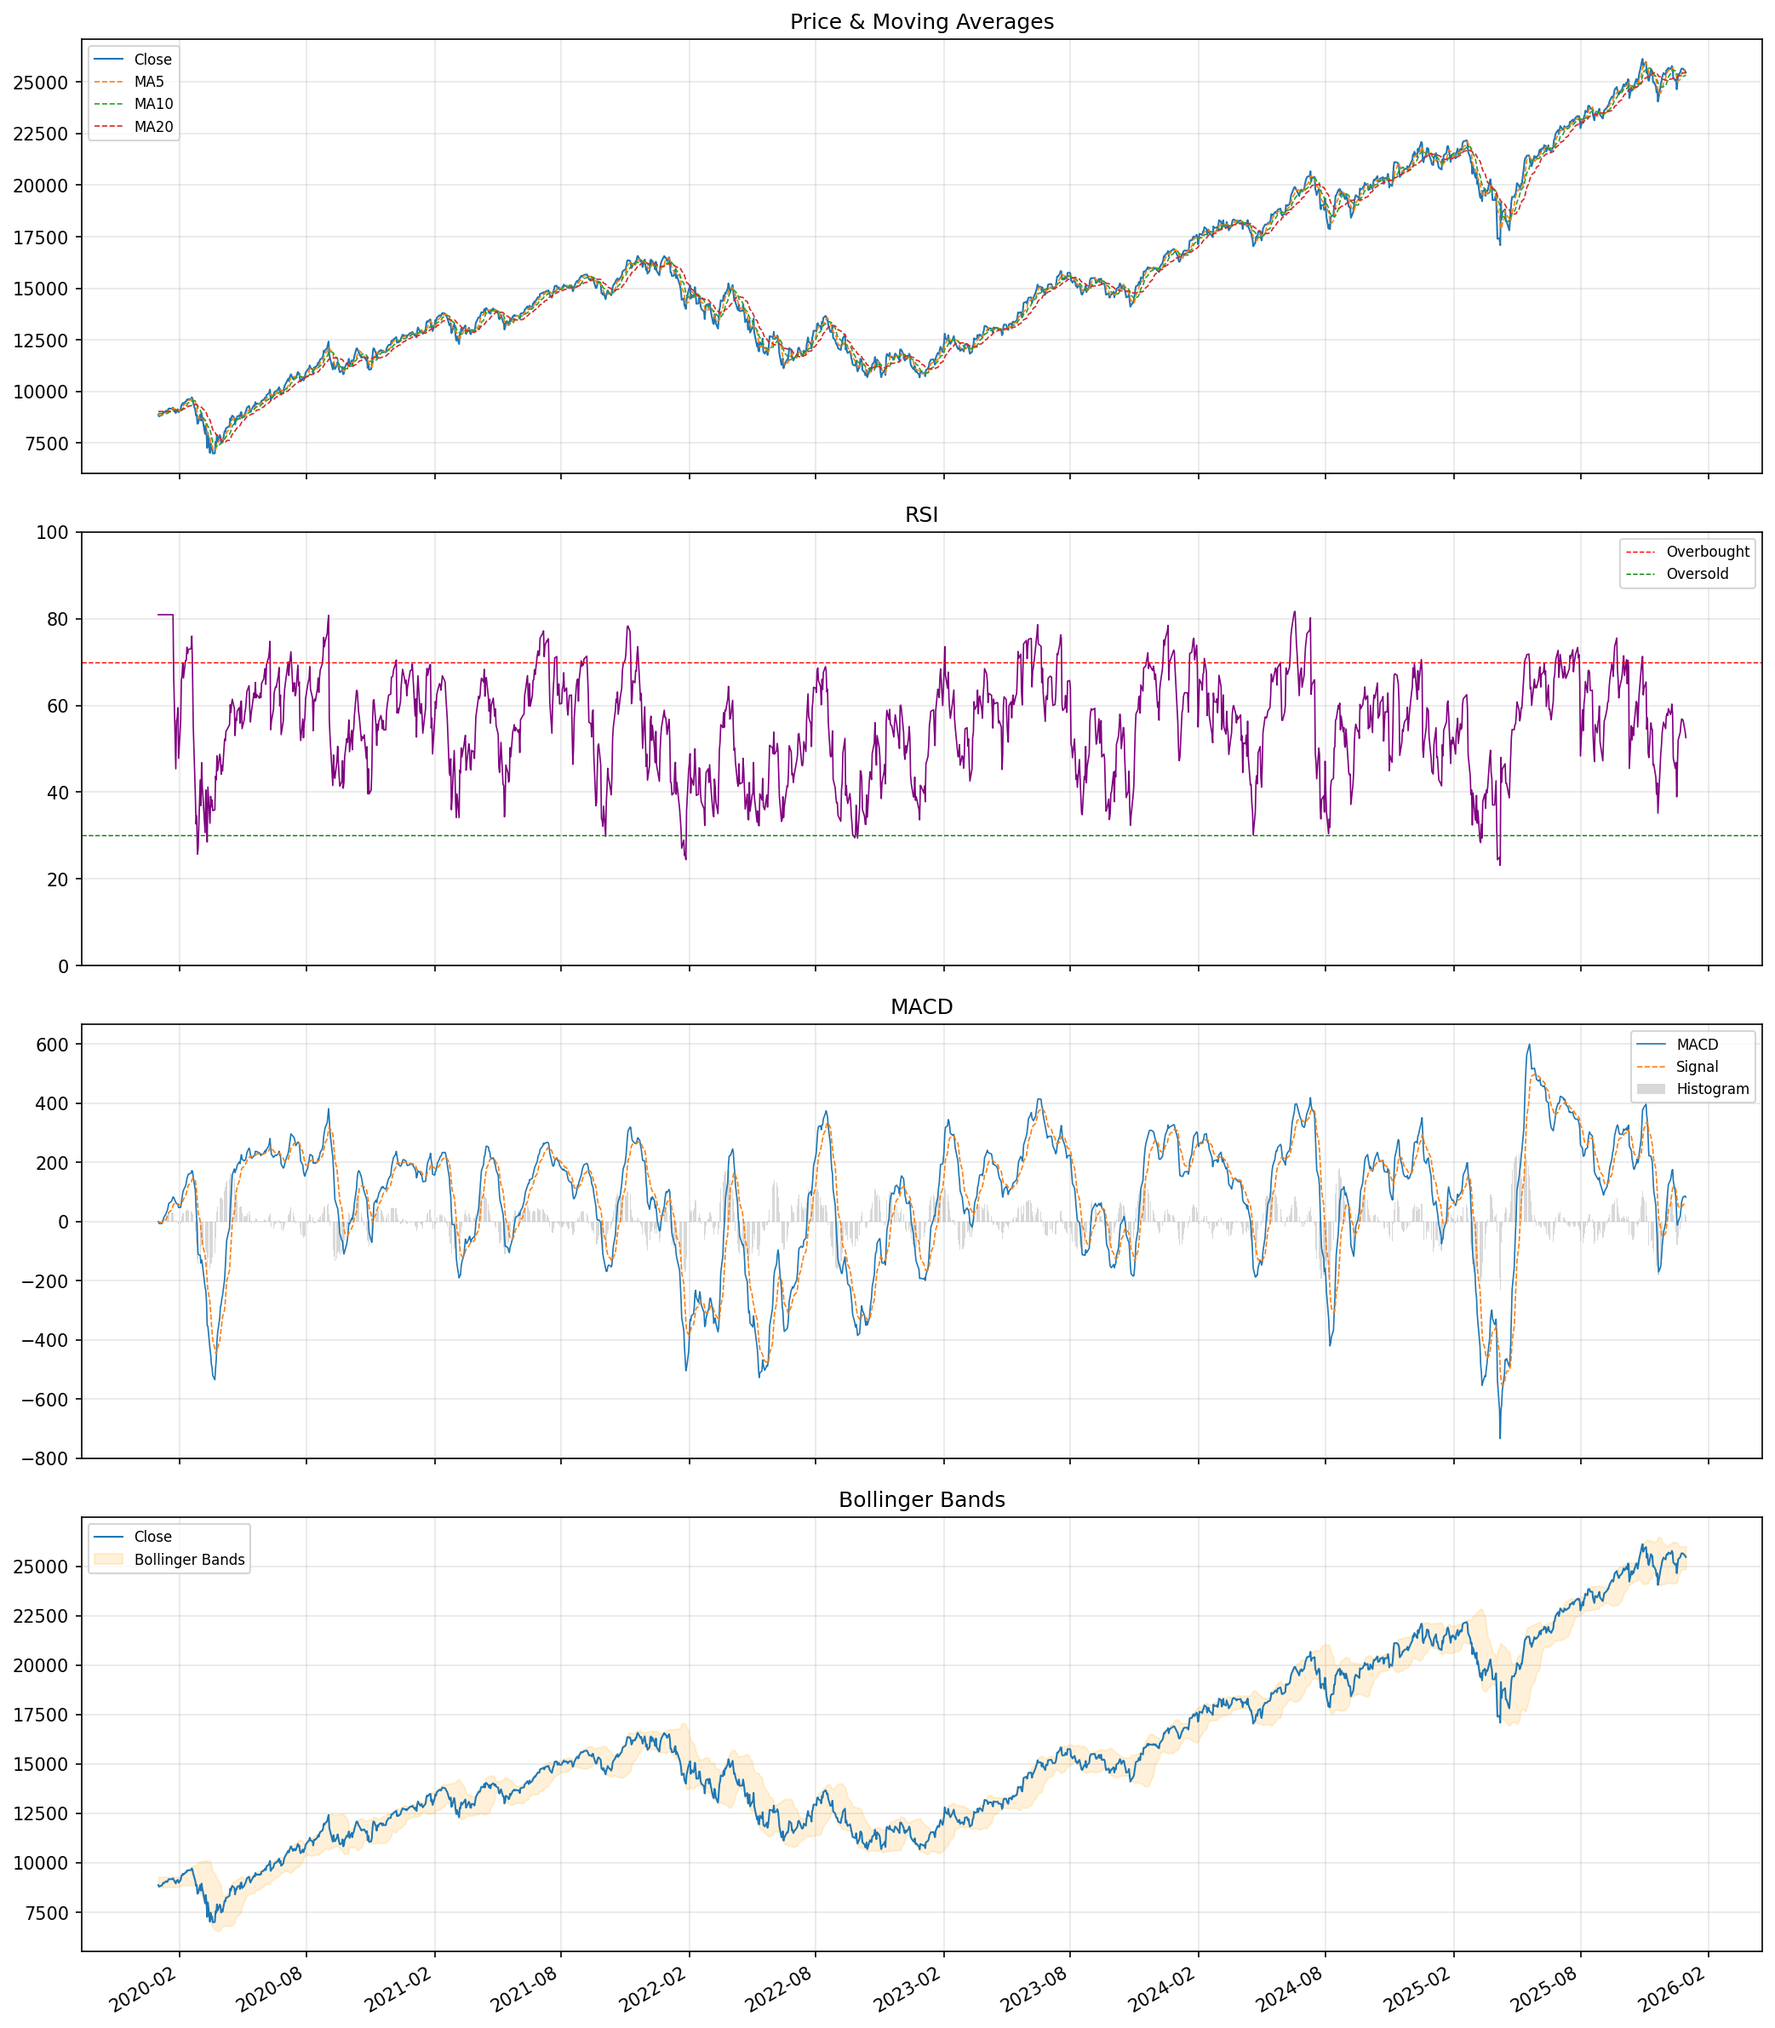
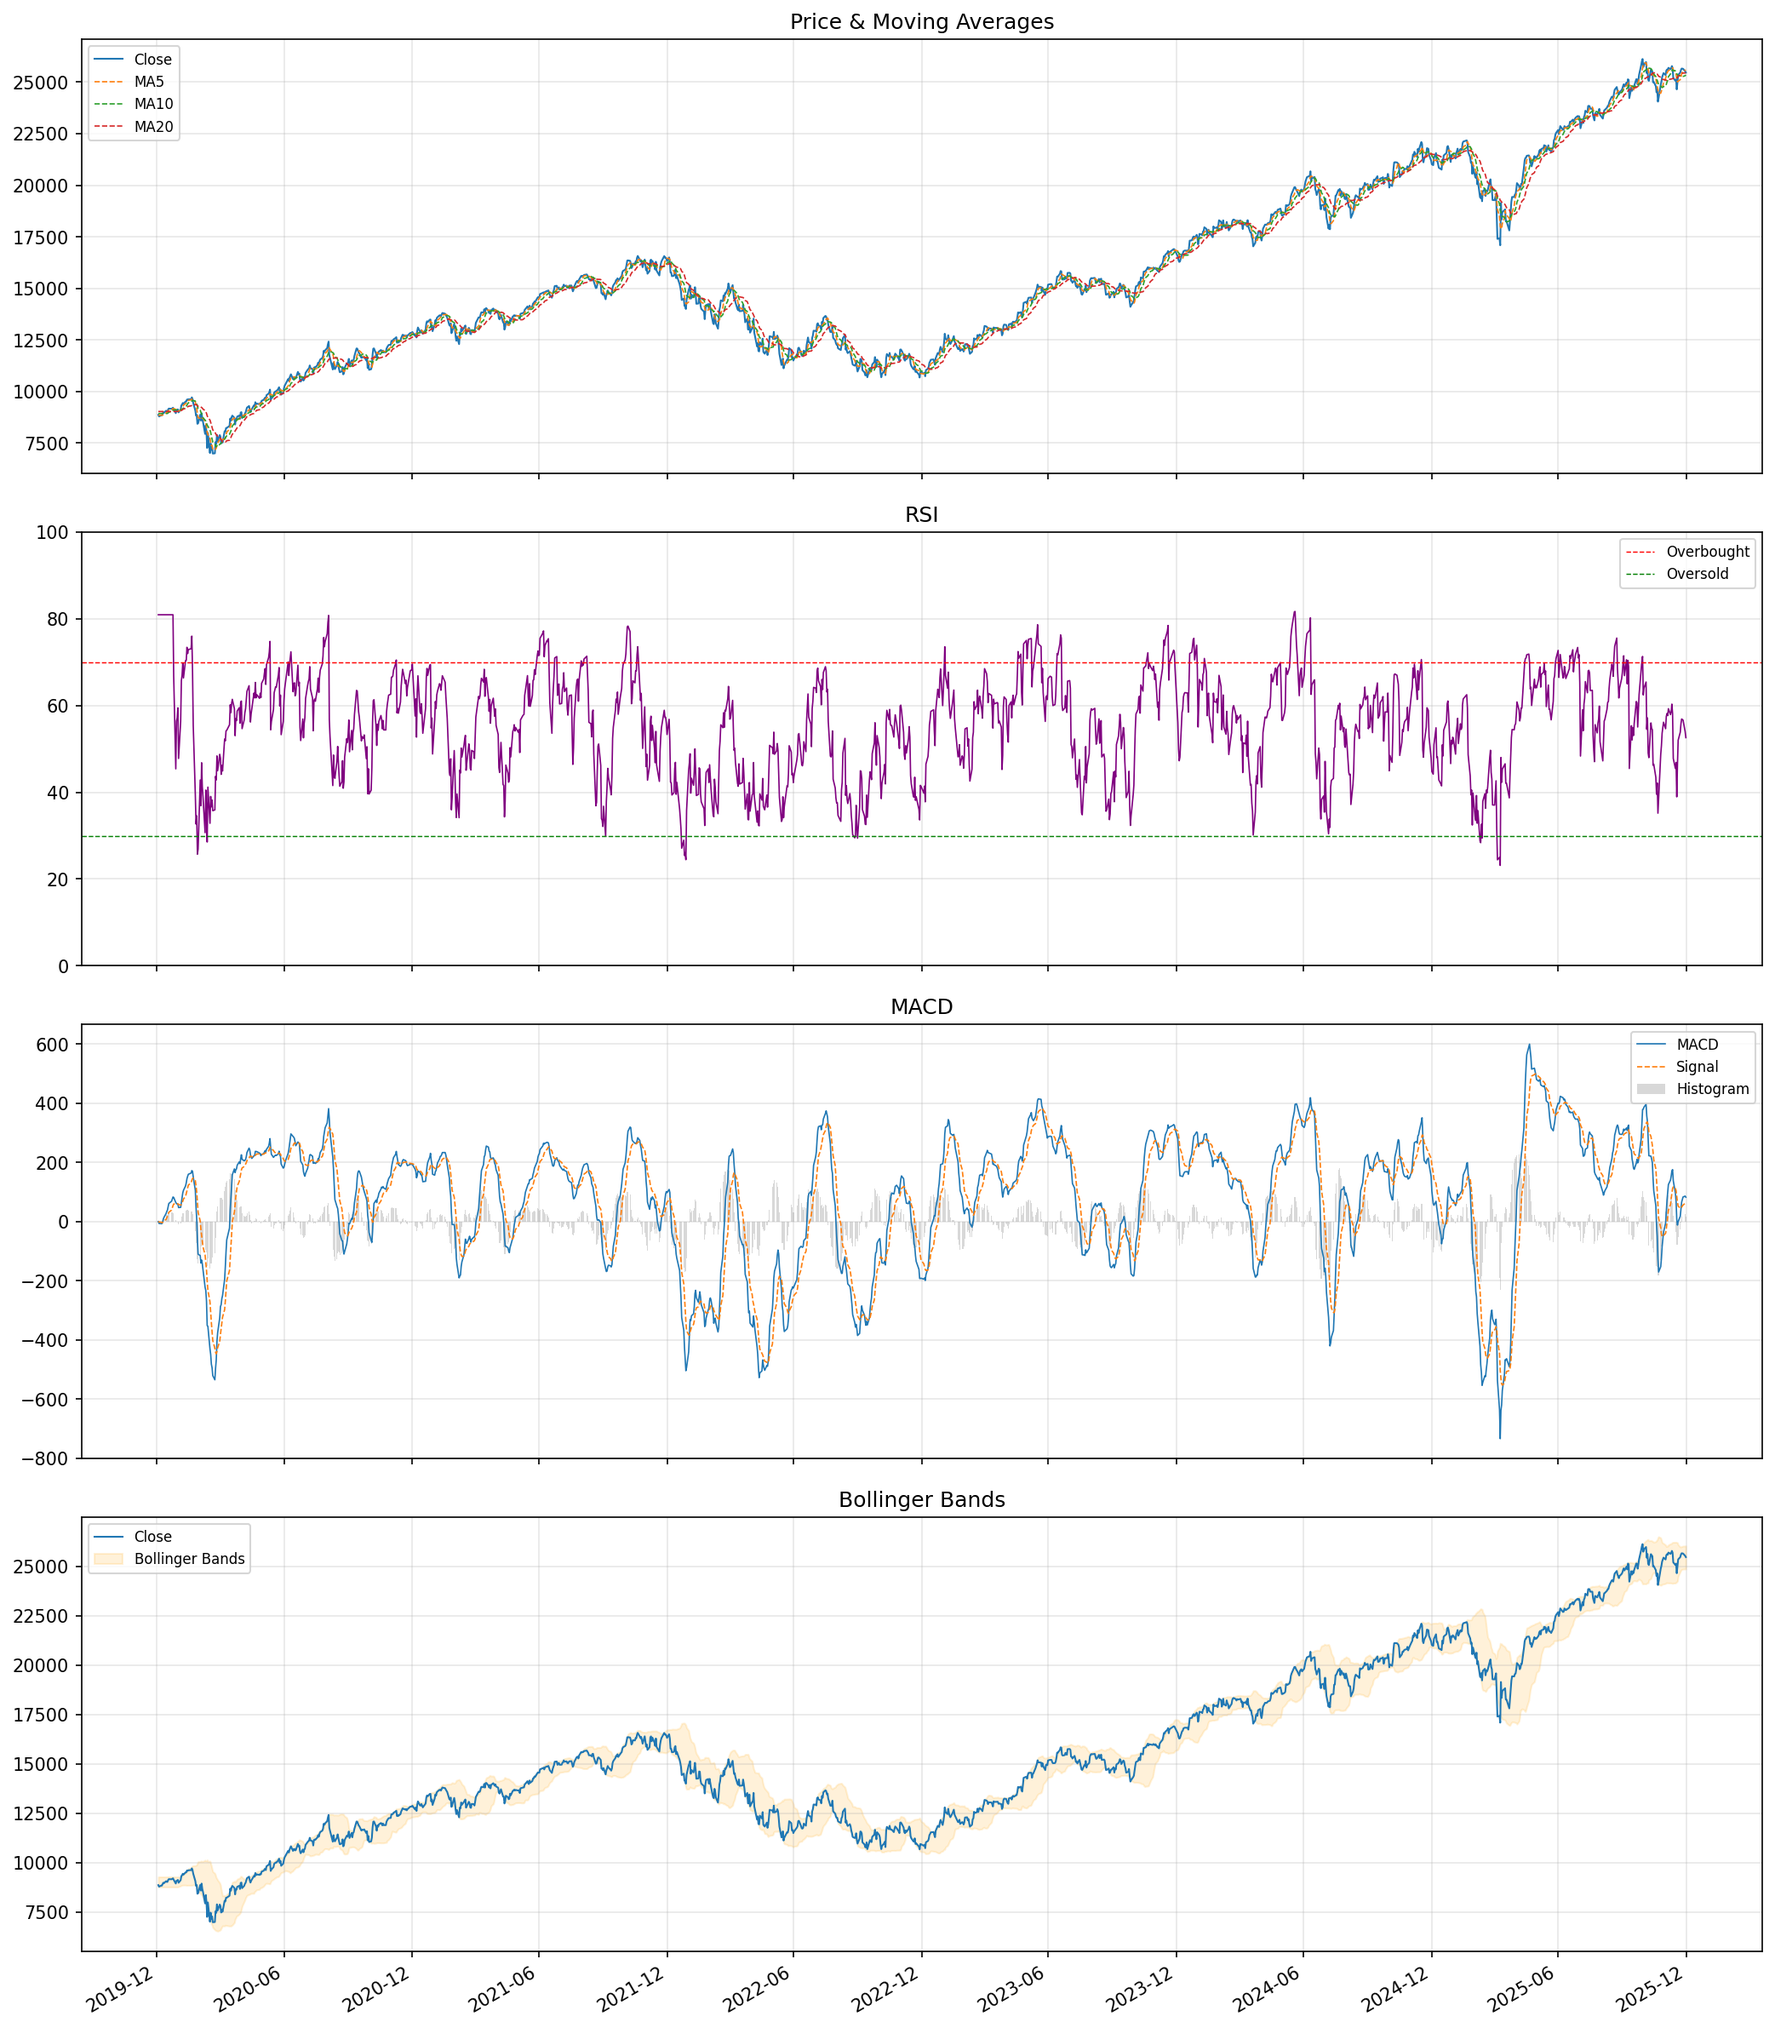
03_11_02 change the xaix

diff --git a/src/visualization/plotter.py b/src/visualization/plotter.py
@@ -73,7 +73,7 @@ class Plotter:
             ax.set_xlim(pd.Timestamp(xlim[0]), pd.Timestamp(xlim[1]))
 
         # Major ticks at June/December (every 6 months)
-        ax.xaxis.set_major_locator(mdates.MonthLocator(bymonth=[6, 12], bymonthday=1))
+        ax.xaxis.set_major_locator(mdates.MonthLocator(bymonth=[6, 12], bymonthday=-1))
         ax.xaxis.set_major_formatter(mdates.DateFormatter("%Y-%m"))
 
         fig.autofmt_xdate()
@@ -148,7 +148,7 @@ class Plotter:
         ax.grid(alpha=0.3)
 
         ax.xaxis.set_major_formatter(mdates.DateFormatter("%Y-%m"))
-        ax.xaxis.set_major_locator(mdates.MonthLocator(interval=6))
+        ax.xaxis.set_major_locator(mdates.MonthLocator(bymonth=[6, 12], bymonthday=-1))
         fig.autofmt_xdate()
         fig.tight_layout()
         self._save_or_show(fig, filename)
